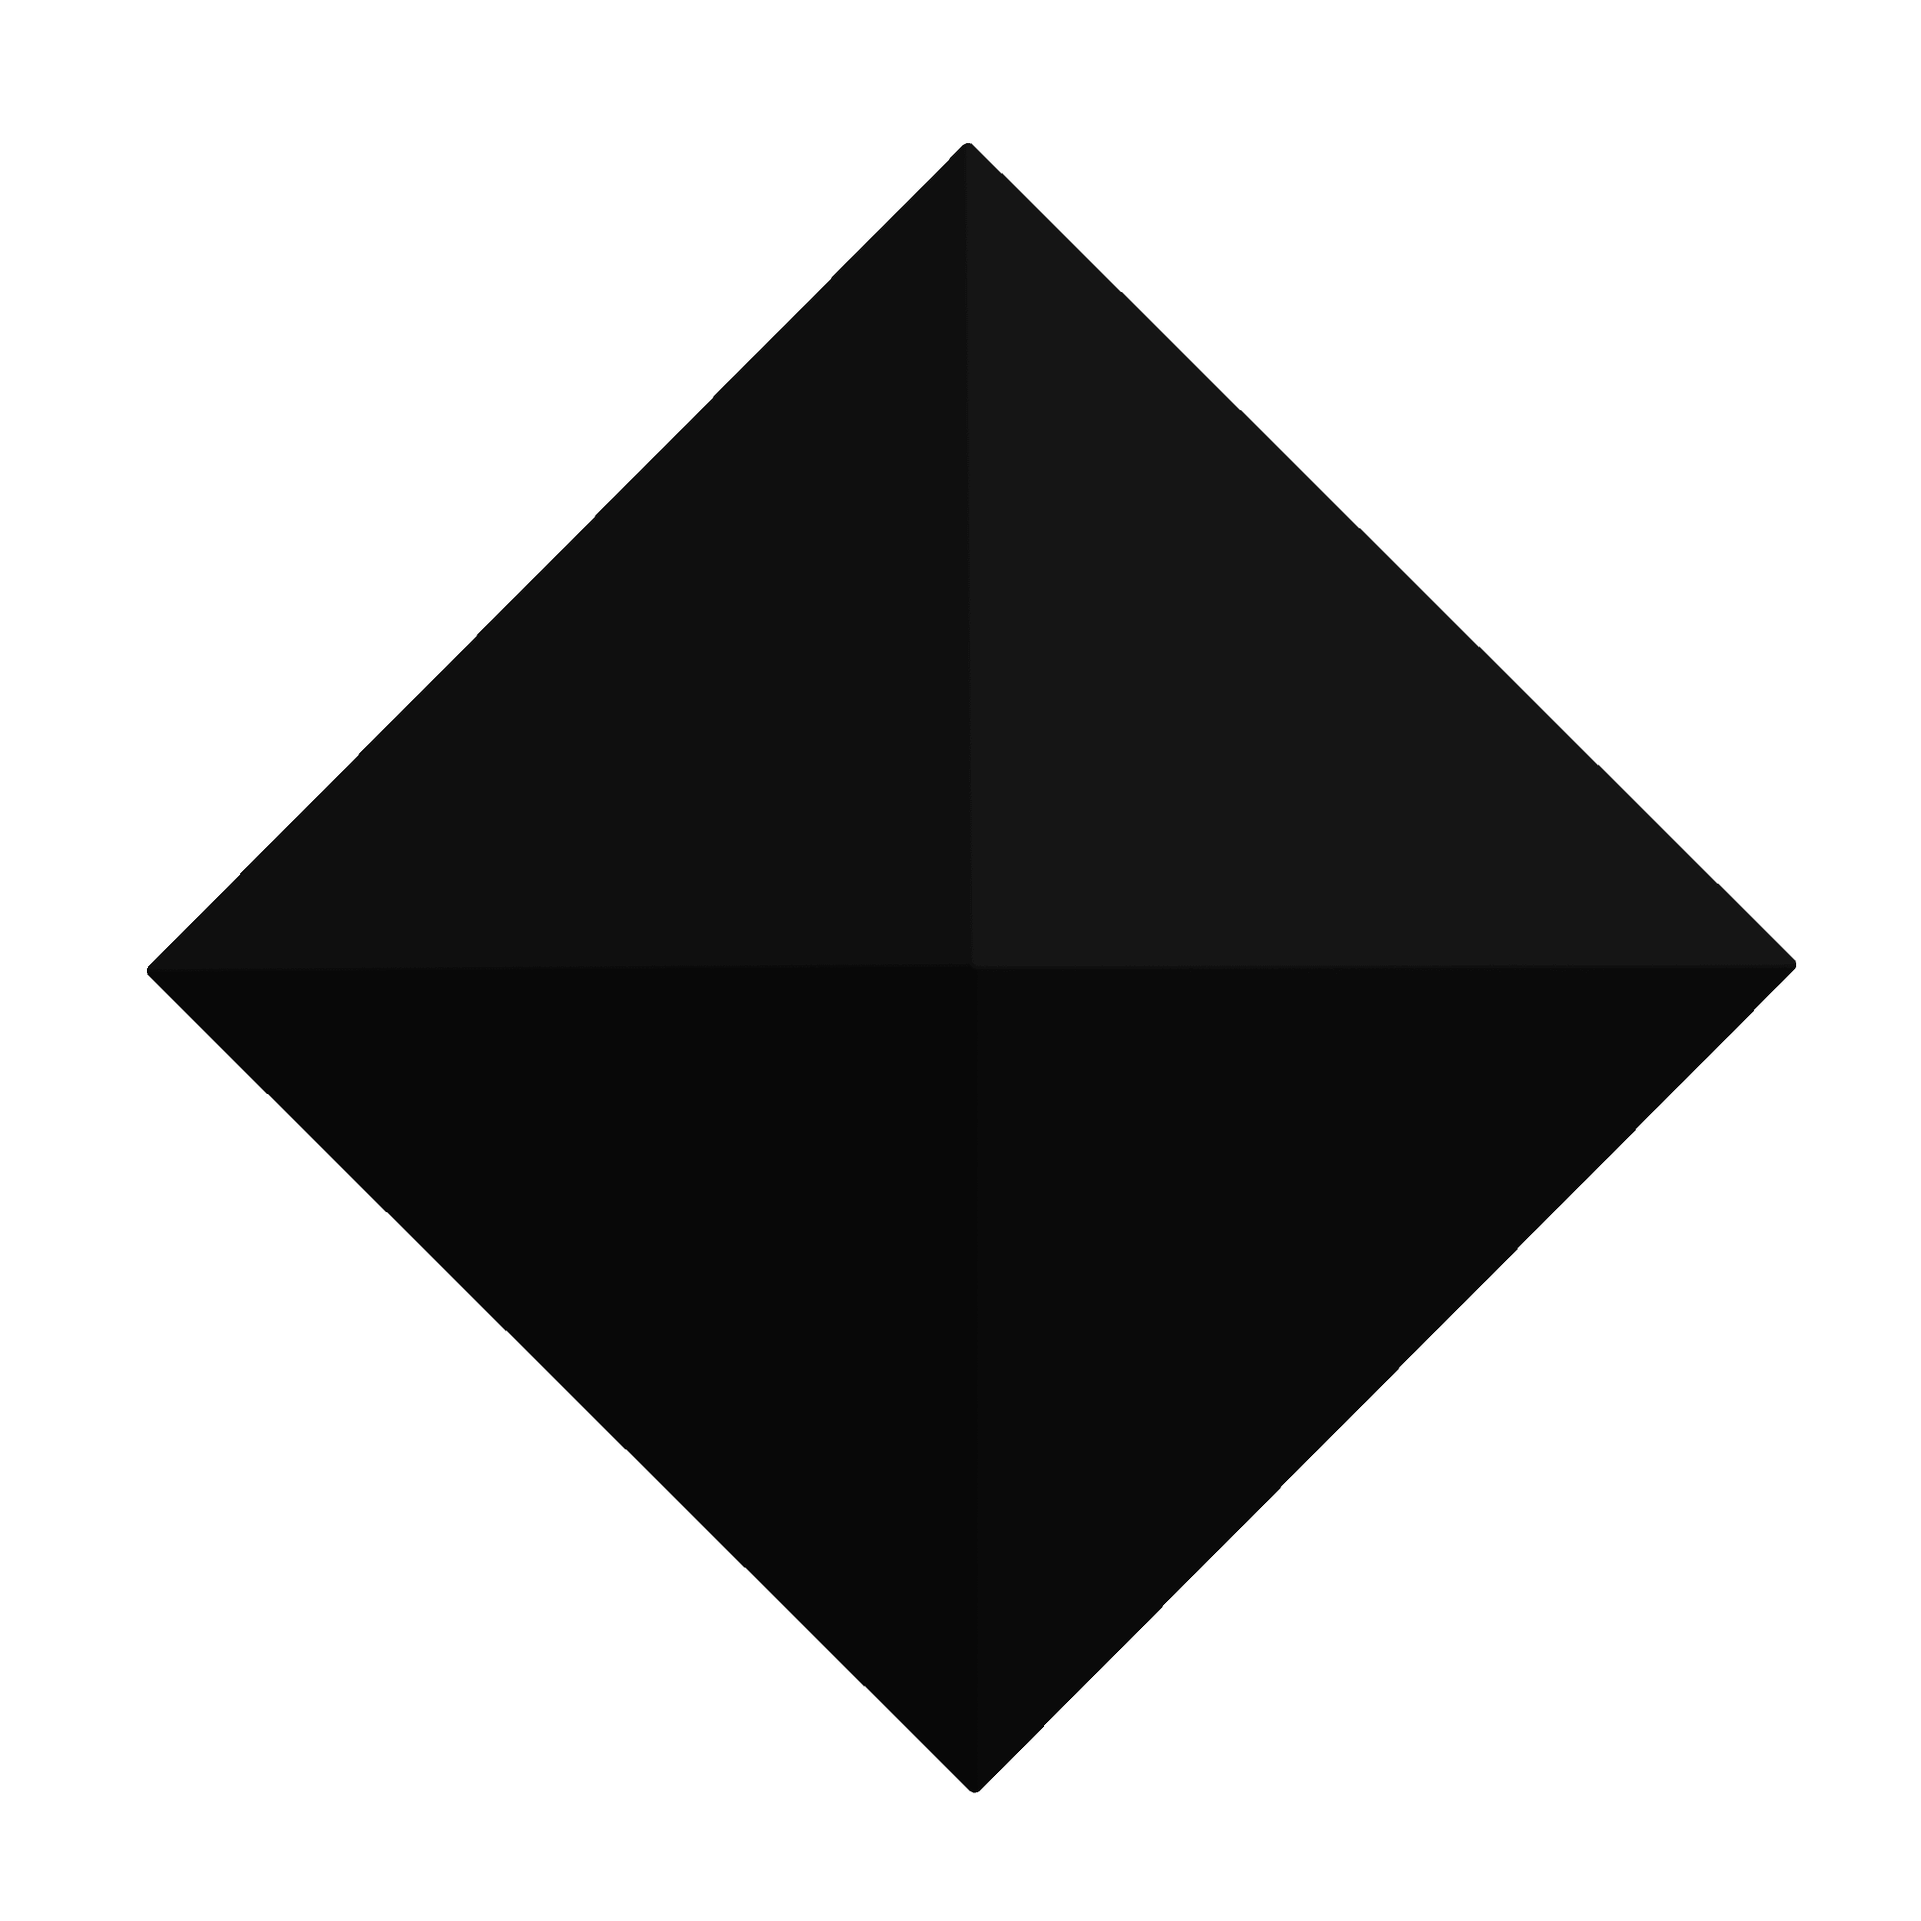
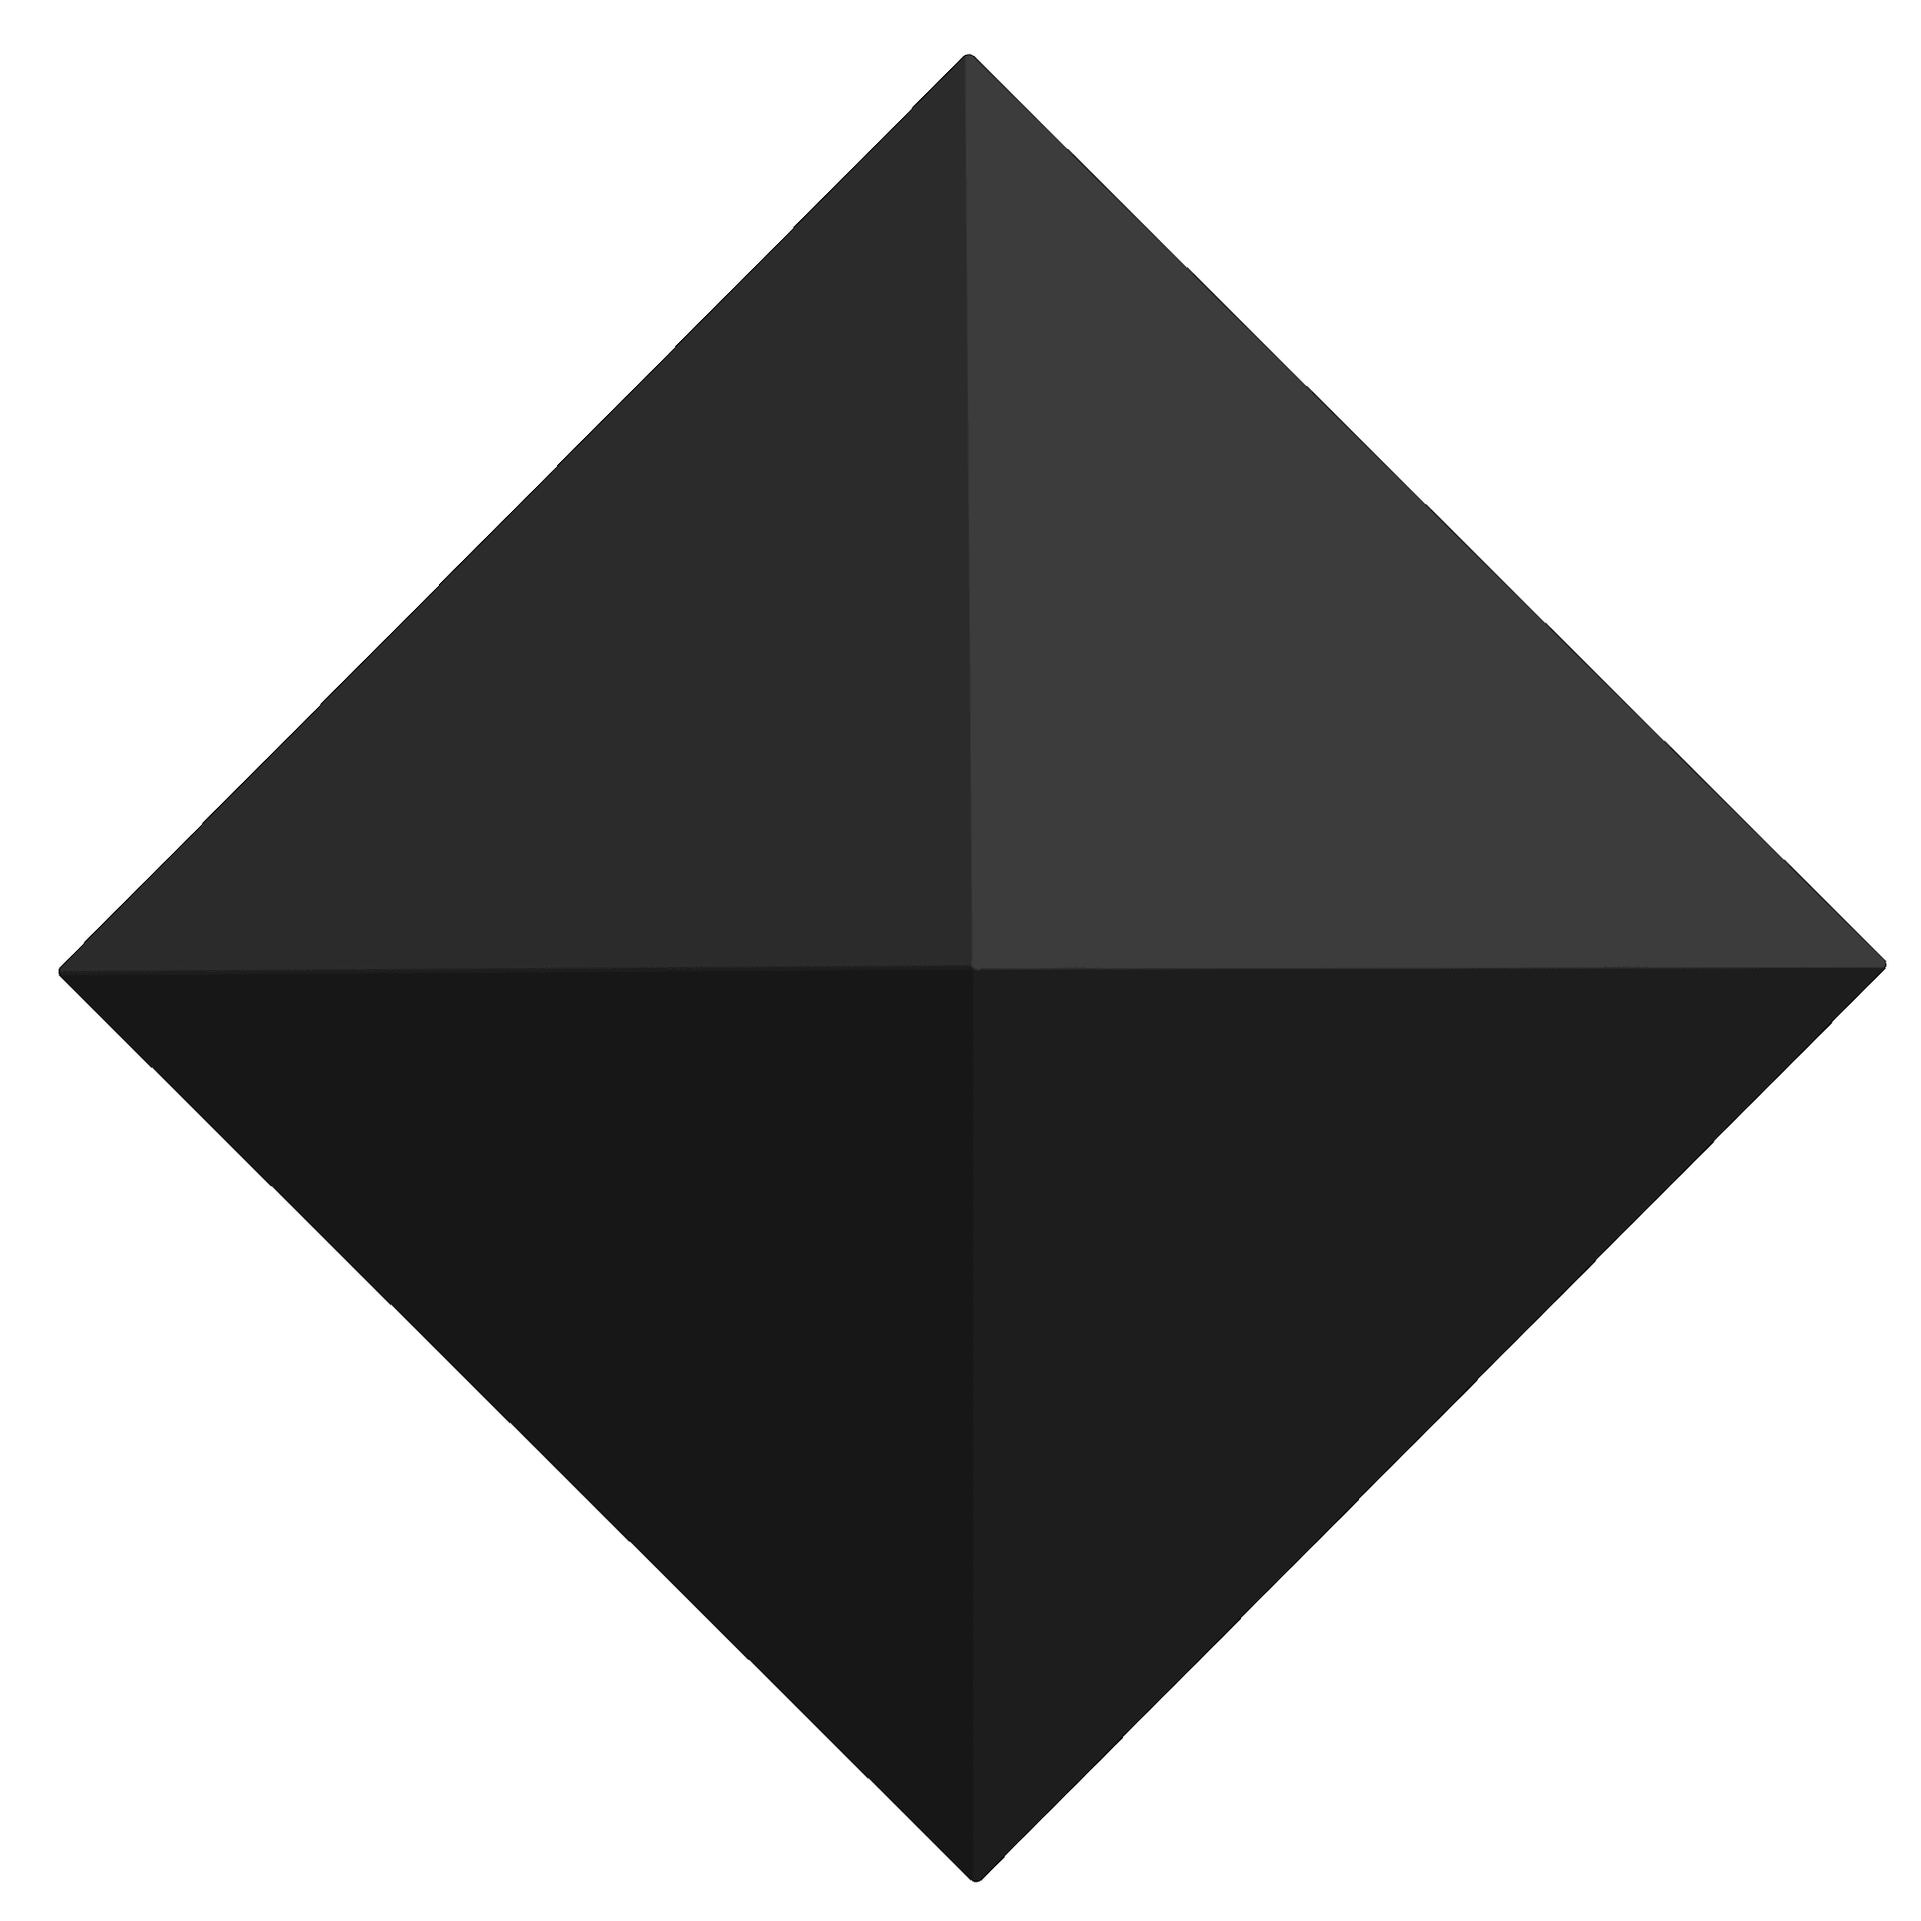
content-02 bg opacity changed

Changed region(s): [[0.031, 0.031, 0.992, 0.992]]

diff --git a/src/css/style.css b/src/css/style.css
@@ -59,7 +59,7 @@ body::-webkit-scrollbar {  /* Chrome, Safari 対応 */
   width: 100vw;
   height: auto;
   margin: auto;
-  background: #fffde8;
+  background: #fffde8b3;
 }
 .content-03{
   width: 100vw;
